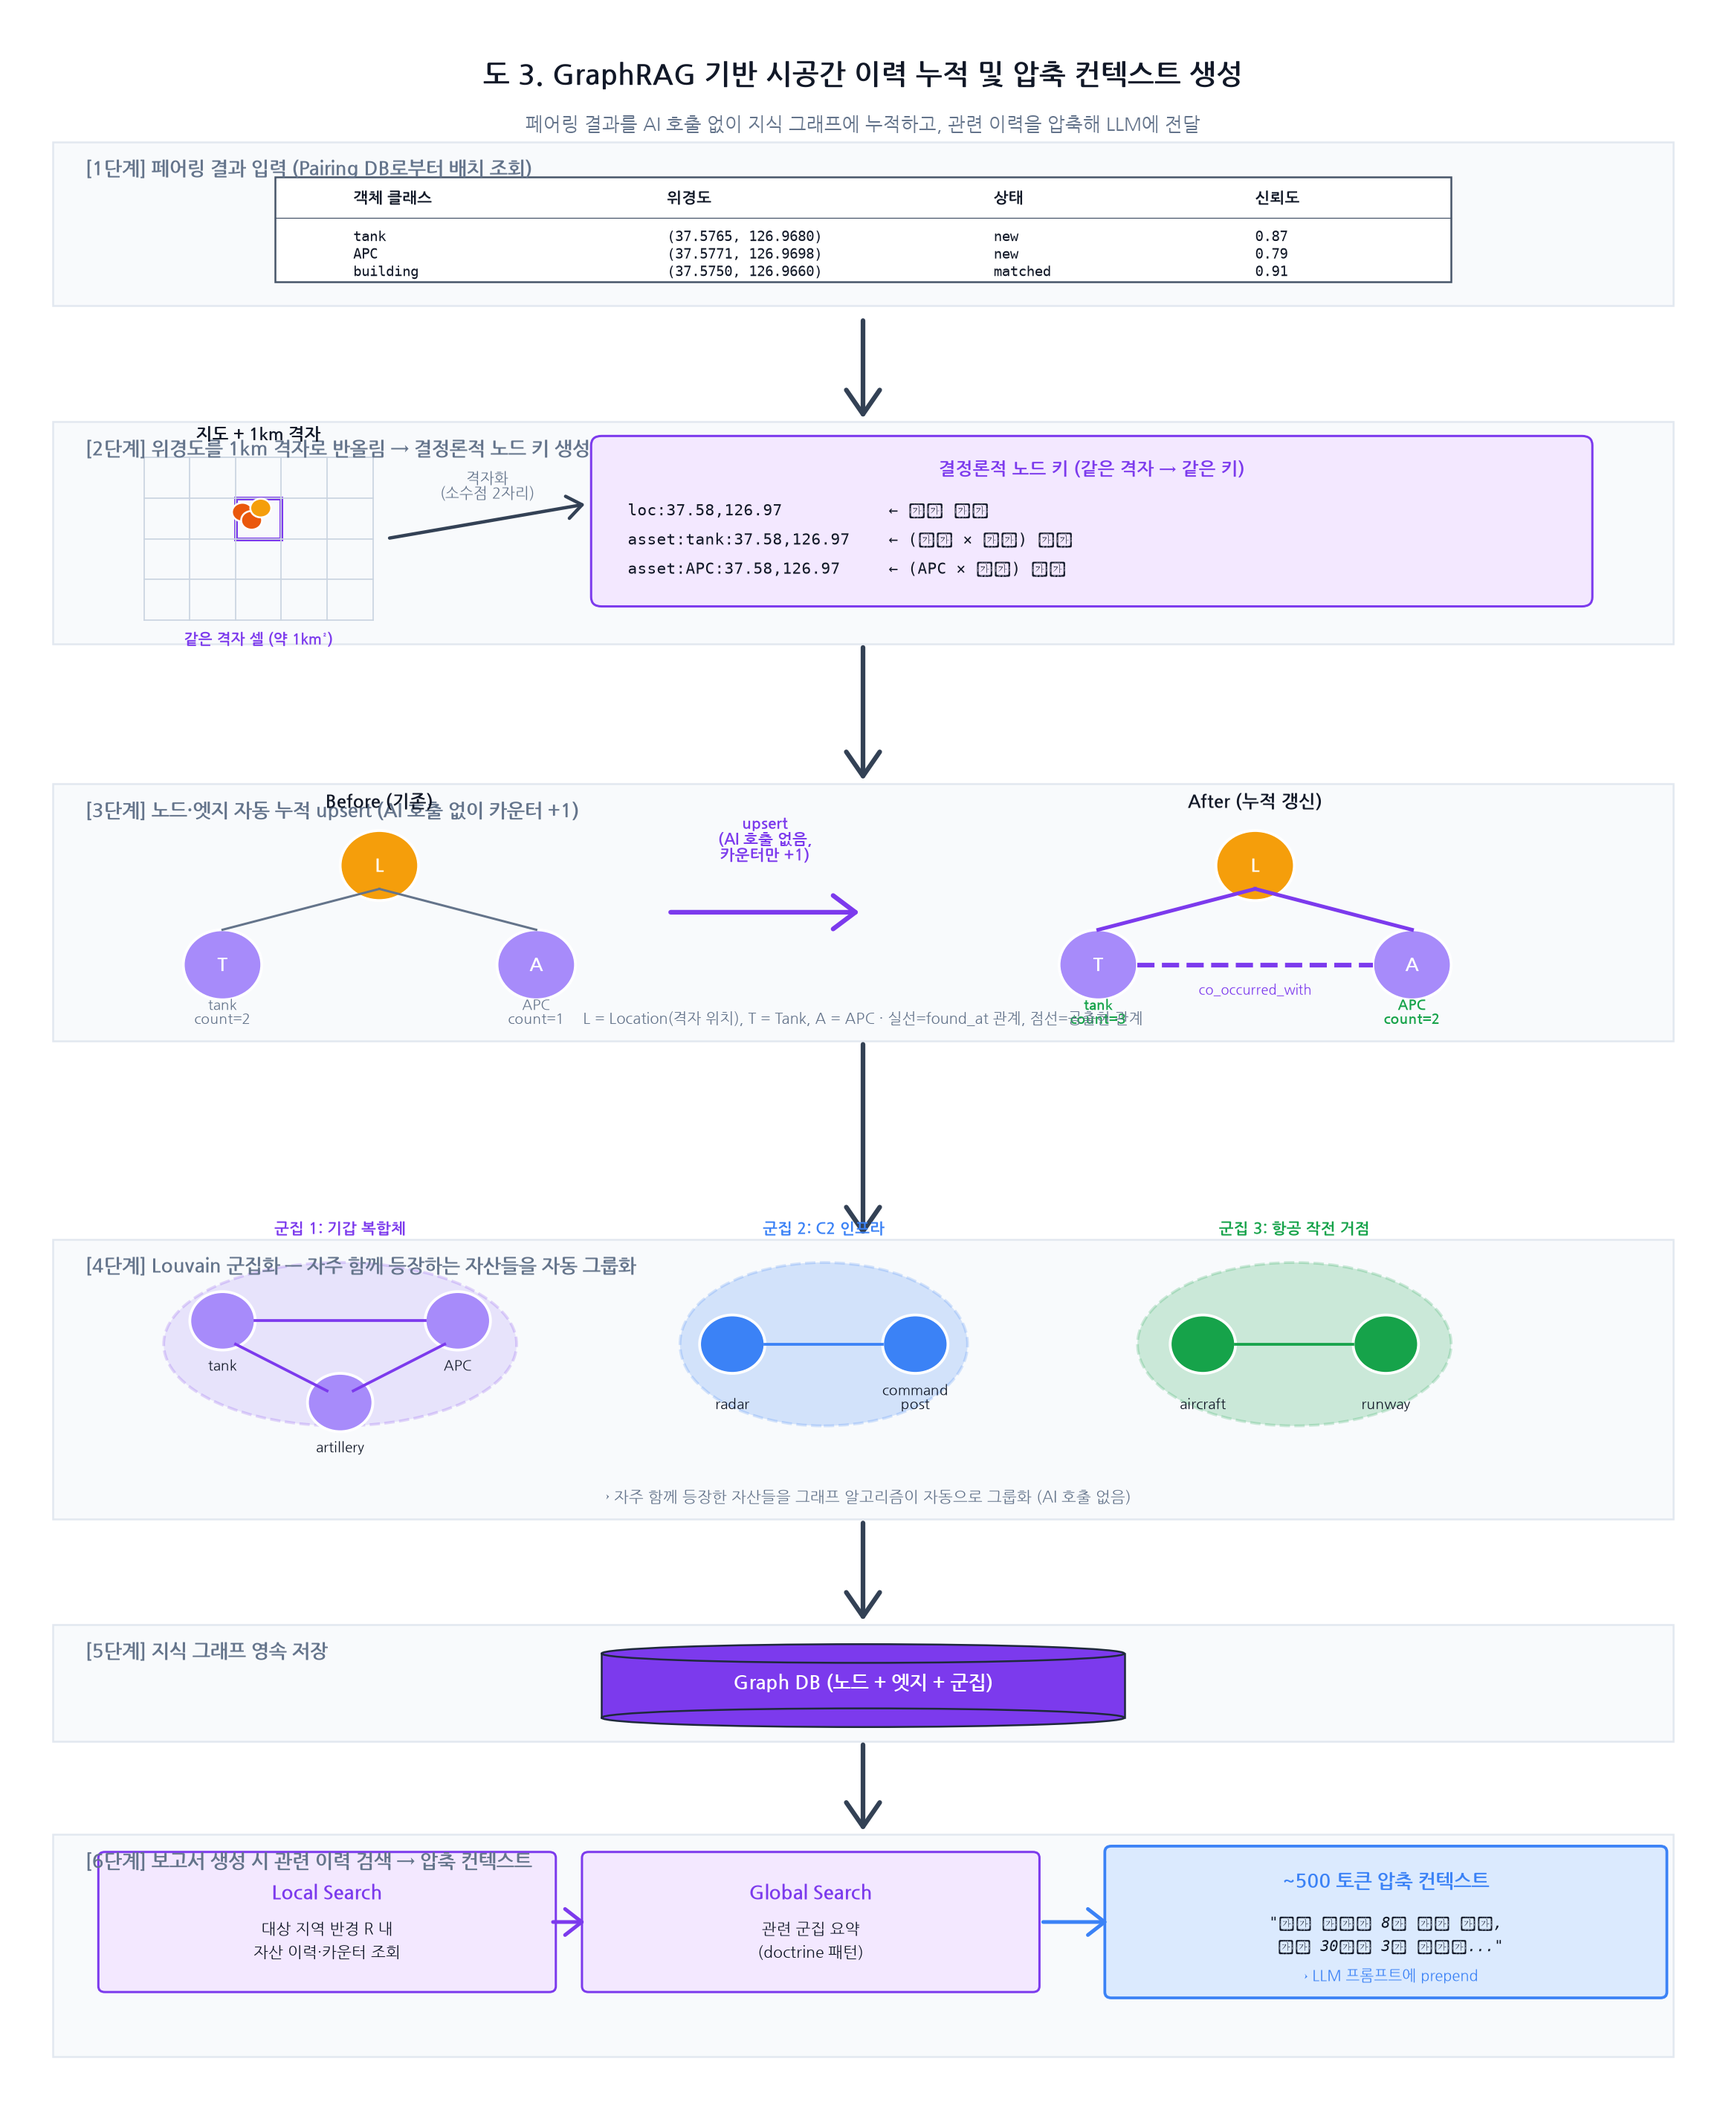
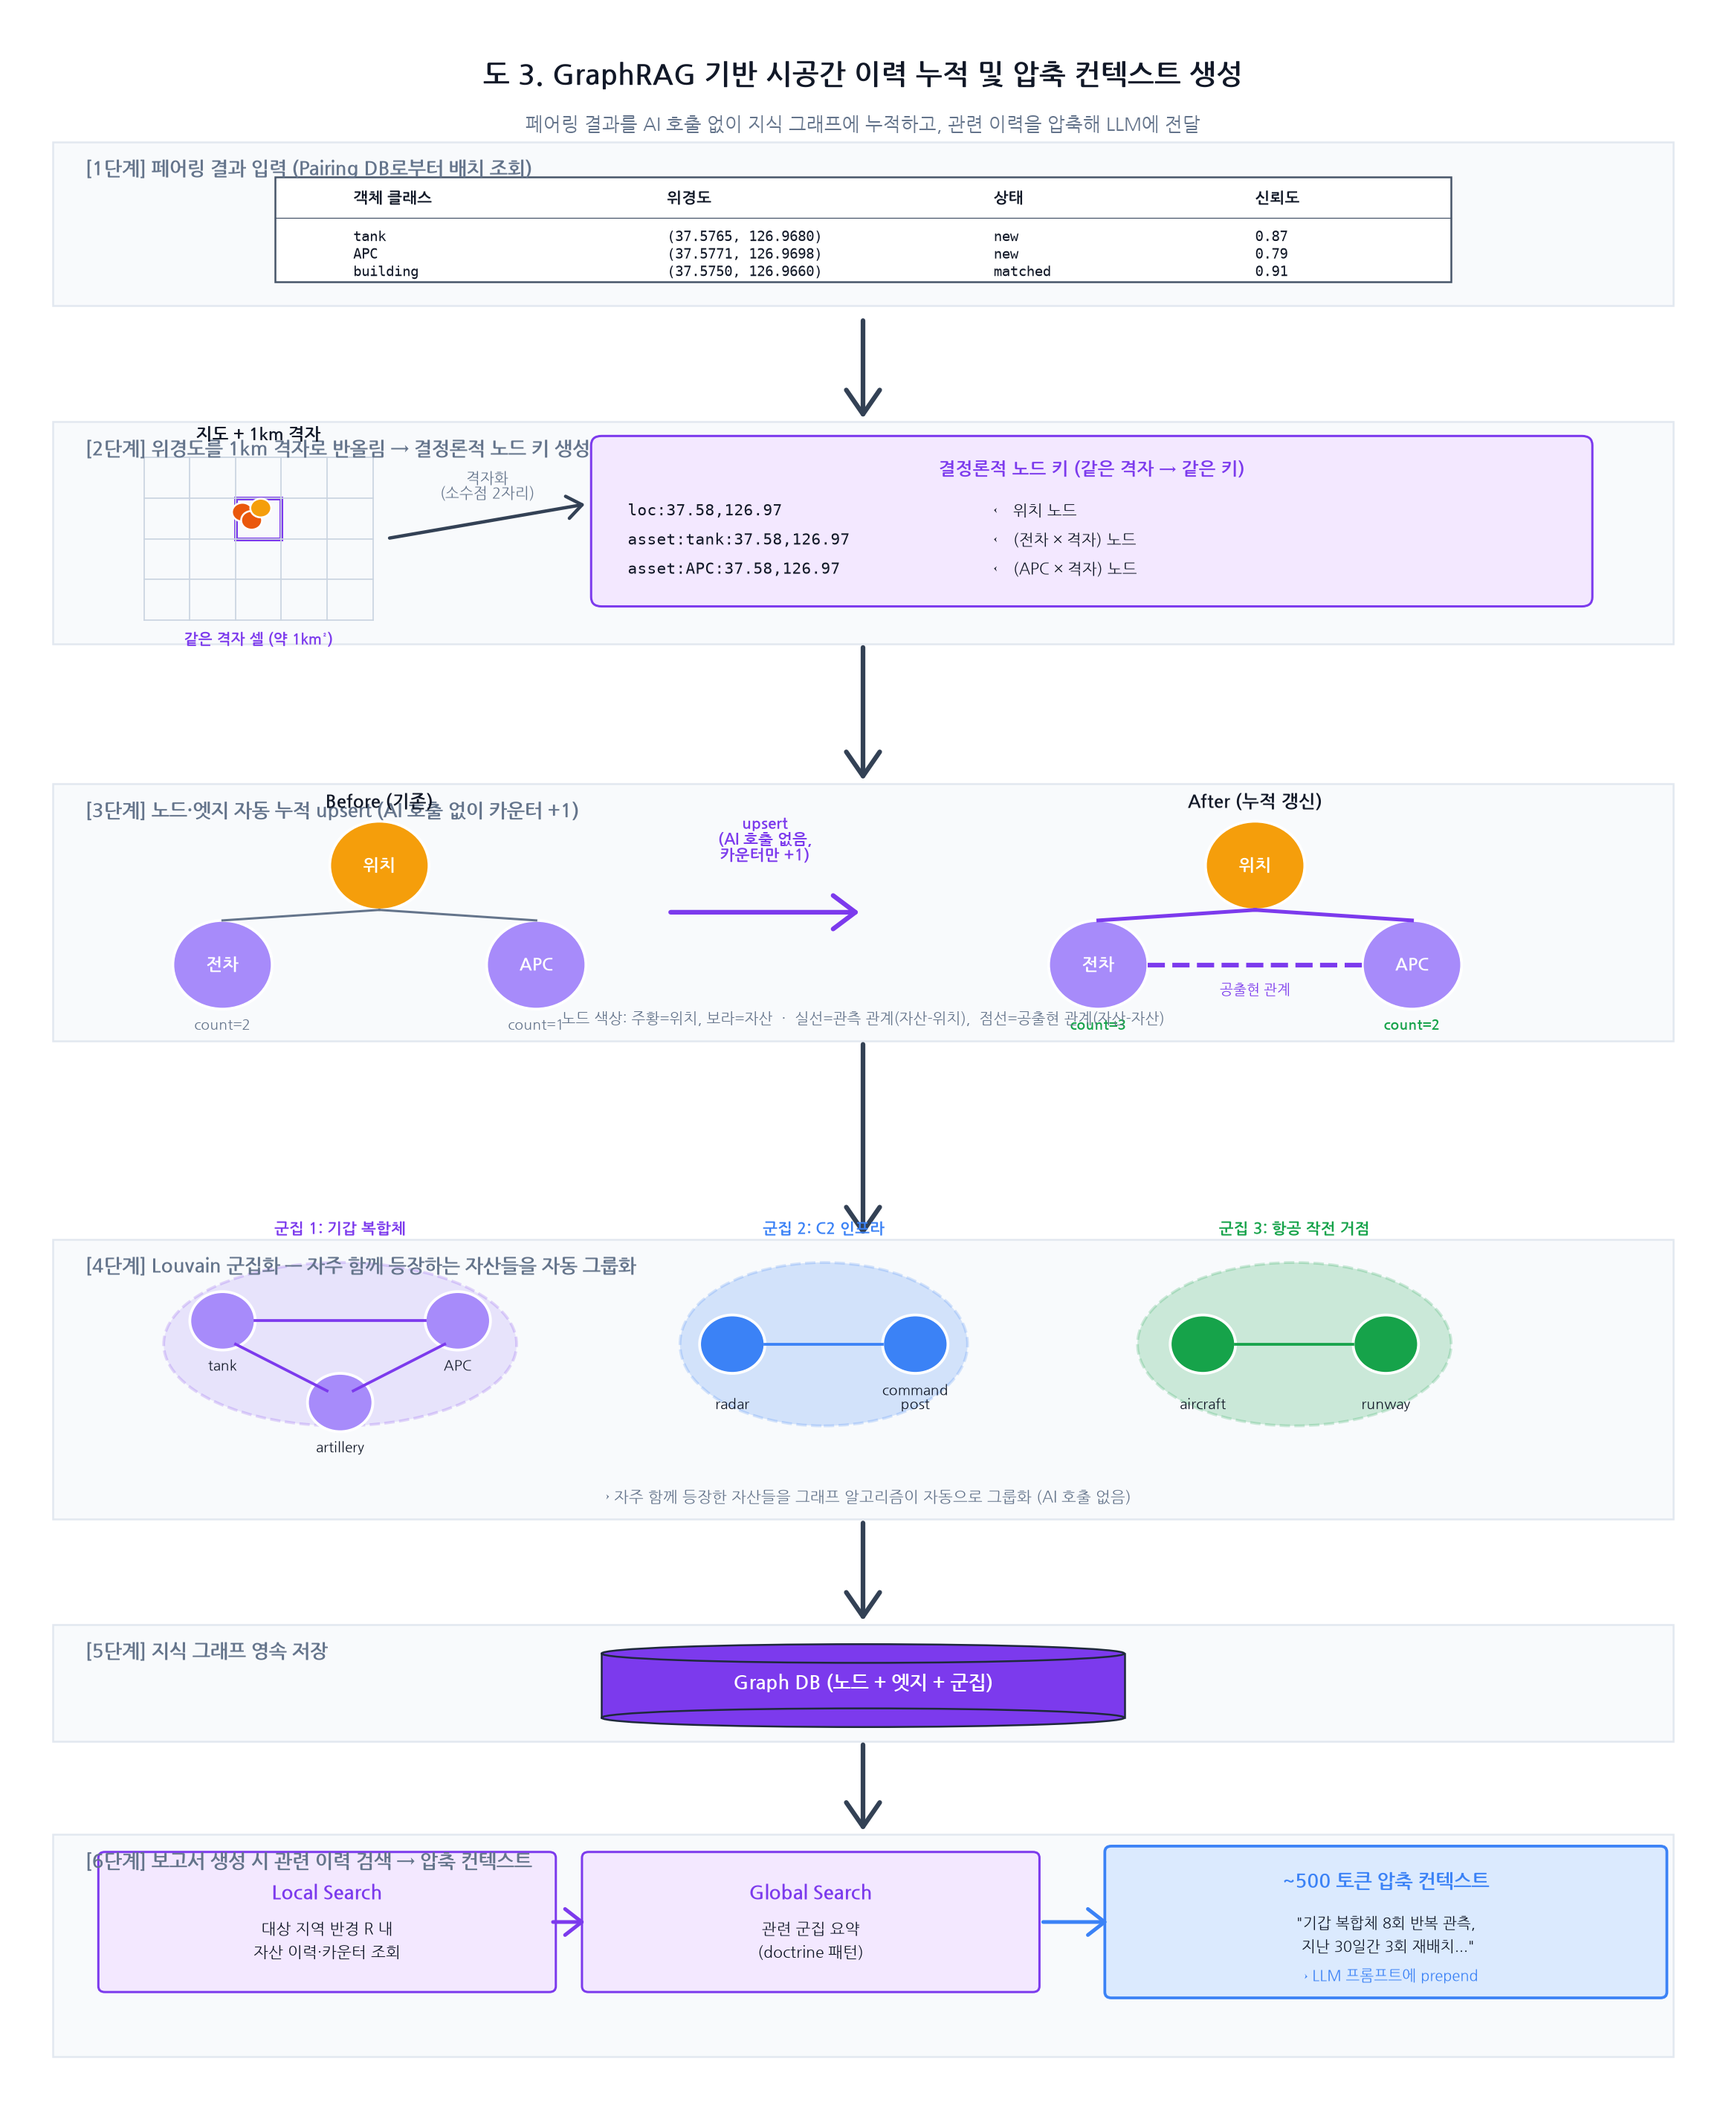
fig3 v2: 노드 라벨 한글화 및 monospace 한글 tofu 제거
- Before/After 박스의 원 노드 라벨을 알파벳(L/T/A)에서
  한글 풀네임(위치/전차/APC)으로 교체해 별도 범례 없이도
  의미가 바로 읽히도록 정리.
- 격자 키 예시(loc:*, asset:*)에서 화살표 설명 부분을 monospace
  글꼴에서 분리해 DejaVu Sans Mono의 한글 글리프 누락으로
  네모(tofu)가 뜨던 문제 해결.
- 압축 컨텍스트 예시 문구의 monospace 지정을 제거해 동일 이슈 해소.

Claude-Session: https://claude.ai/code/session_01Y3sWY7g1ewsnteVCS5FK4B

diff --git a/build_fig3_v2.py b/build_fig3_v2.py
@@ -144,14 +144,17 @@ ax.add_patch(FancyBboxPatch((kx, ky), key_box_w, 1.3, boxstyle="round,pad=0.08",
 ax.text(kx + key_box_w/2, ky + 1.05, "결정론적 노드 키 (같은 격자 → 같은 키)",
         ha="center", fontsize=9.5, fontweight="bold", color=GRAPH)
 ax.text(kx + 0.2, ky + 0.7,
-        "loc:37.58,126.97           ← 위치 노드",
-        fontsize=8.5, family="monospace", color=TEXT)
+        "loc:37.58,126.97", fontsize=8.5, family="monospace", color=TEXT)
+ax.text(kx + 3.0, ky + 0.7,
+        "← 위치 노드", fontsize=8.5, color=TEXT)
 ax.text(kx + 0.2, ky + 0.45,
-        "asset:tank:37.58,126.97    ← (전차 × 격자) 노드",
-        fontsize=8.5, family="monospace", color=TEXT)
+        "asset:tank:37.58,126.97", fontsize=8.5, family="monospace", color=TEXT)
+ax.text(kx + 3.0, ky + 0.45,
+        "← (전차 × 격자) 노드", fontsize=8.5, color=TEXT)
 ax.text(kx + 0.2, ky + 0.2,
-        "asset:APC:37.58,126.97     ← (APC × 격자) 노드",
-        fontsize=8.5, family="monospace", color=TEXT)
+        "asset:APC:37.58,126.97", fontsize=8.5, family="monospace", color=TEXT)
+ax.text(kx + 3.0, ky + 0.2,
+        "← (APC × 격자) 노드", fontsize=8.5, color=TEXT)
 
 arrow_down(6.5, 12.6, 11.4)
 
@@ -165,23 +168,23 @@ bx, by = 0.8, 9.5
 ax.text(bx + 2.0, by + 1.7, "Before (기존)", ha="center", fontsize=9.5,
         fontweight="bold", color=TEXT)
 # location 노드
-ax.add_patch(Circle((bx + 2.0, by + 1.2), 0.30, facecolor=NODE_L, edgecolor="white", lw=1.5))
-ax.text(bx + 2.0, by + 1.2, "L", ha="center", va="center",
-        fontsize=10, fontweight="bold", color="white")
+ax.add_patch(Circle((bx + 2.0, by + 1.2), 0.38, facecolor=NODE_L, edgecolor="white", lw=1.5))
+ax.text(bx + 2.0, by + 1.2, "위치", ha="center", va="center",
+        fontsize=9, fontweight="bold", color="white")
 # asset 노드 2개
-ax.add_patch(Circle((bx + 0.8, by + 0.35), 0.30, facecolor=NODE_A, edgecolor="white", lw=1.5))
-ax.text(bx + 0.8, by + 0.35, "T", ha="center", va="center", fontsize=10,
+ax.add_patch(Circle((bx + 0.8, by + 0.35), 0.38, facecolor=NODE_A, edgecolor="white", lw=1.5))
+ax.text(bx + 0.8, by + 0.35, "전차", ha="center", va="center", fontsize=9,
         fontweight="bold", color="white")
-ax.text(bx + 0.8, by - 0.15, "tank\ncount=2", ha="center", fontsize=7.5, color=MUTED)
+ax.text(bx + 0.8, by - 0.2, "count=2", ha="center", fontsize=7.5, color=MUTED)
 
-ax.add_patch(Circle((bx + 3.2, by + 0.35), 0.30, facecolor=NODE_A, edgecolor="white", lw=1.5))
-ax.text(bx + 3.2, by + 0.35, "A", ha="center", va="center", fontsize=10,
+ax.add_patch(Circle((bx + 3.2, by + 0.35), 0.38, facecolor=NODE_A, edgecolor="white", lw=1.5))
+ax.text(bx + 3.2, by + 0.35, "APC", ha="center", va="center", fontsize=9,
         fontweight="bold", color="white")
-ax.text(bx + 3.2, by - 0.15, "APC\ncount=1", ha="center", fontsize=7.5, color=MUTED)
+ax.text(bx + 3.2, by - 0.2, "count=1", ha="center", fontsize=7.5, color=MUTED)
 
 # 엣지
-ax.plot([bx + 0.8, bx + 2.0], [by + 0.65, by + 1.0], color=MUTED, lw=1.2)
-ax.plot([bx + 3.2, bx + 2.0], [by + 0.65, by + 1.0], color=MUTED, lw=1.2)
+ax.plot([bx + 0.8, bx + 2.0], [by + 0.73, by + 0.82], color=MUTED, lw=1.2)
+ax.plot([bx + 3.2, bx + 2.0], [by + 0.73, by + 0.82], color=MUTED, lw=1.2)
 
 # 중앙 화살표 (upsert 처리)
 mx = 5.0
@@ -196,34 +199,34 @@ ax_x, ay = 7.5, 9.5
 ax.text(ax_x + 2.0, ay + 1.7, "After (누적 갱신)", ha="center",
         fontsize=9.5, fontweight="bold", color=TEXT)
 # location 노드
-ax.add_patch(Circle((ax_x + 2.0, ay + 1.2), 0.30, facecolor=NODE_L, edgecolor="white", lw=1.5))
-ax.text(ax_x + 2.0, ay + 1.2, "L", ha="center", va="center",
-        fontsize=10, fontweight="bold", color="white")
+ax.add_patch(Circle((ax_x + 2.0, ay + 1.2), 0.38, facecolor=NODE_L, edgecolor="white", lw=1.5))
+ax.text(ax_x + 2.0, ay + 1.2, "위치", ha="center", va="center",
+        fontsize=9, fontweight="bold", color="white")
 # asset 노드
-ax.add_patch(Circle((ax_x + 0.8, ay + 0.35), 0.30, facecolor=NODE_A, edgecolor="white", lw=1.5))
-ax.text(ax_x + 0.8, ay + 0.35, "T", ha="center", va="center", fontsize=10,
+ax.add_patch(Circle((ax_x + 0.8, ay + 0.35), 0.38, facecolor=NODE_A, edgecolor="white", lw=1.5))
+ax.text(ax_x + 0.8, ay + 0.35, "전차", ha="center", va="center", fontsize=9,
         fontweight="bold", color="white")
-ax.text(ax_x + 0.8, ay - 0.15, "tank\ncount=3", ha="center", fontsize=7.5,
+ax.text(ax_x + 0.8, ay - 0.2, "count=3", ha="center", fontsize=7.5,
         color=GREEN, fontweight="bold")
 
-ax.add_patch(Circle((ax_x + 3.2, ay + 0.35), 0.30, facecolor=NODE_A, edgecolor="white", lw=1.5))
-ax.text(ax_x + 3.2, ay + 0.35, "A", ha="center", va="center", fontsize=10,
+ax.add_patch(Circle((ax_x + 3.2, ay + 0.35), 0.38, facecolor=NODE_A, edgecolor="white", lw=1.5))
+ax.text(ax_x + 3.2, ay + 0.35, "APC", ha="center", va="center", fontsize=9,
         fontweight="bold", color="white")
-ax.text(ax_x + 3.2, ay - 0.15, "APC\ncount=2", ha="center", fontsize=7.5,
+ax.text(ax_x + 3.2, ay - 0.2, "count=2", ha="center", fontsize=7.5,
         color=GREEN, fontweight="bold")
 
 # 엣지 - 굵어짐 (공출현 강화)
-ax.plot([ax_x + 0.8, ax_x + 2.0], [ay + 0.65, ay + 1.0], color=GRAPH, lw=2.0)
-ax.plot([ax_x + 3.2, ax_x + 2.0], [ay + 0.65, ay + 1.0], color=GRAPH, lw=2.0)
+ax.plot([ax_x + 0.8, ax_x + 2.0], [ay + 0.73, ay + 0.82], color=GRAPH, lw=2.0)
+ax.plot([ax_x + 3.2, ax_x + 2.0], [ay + 0.73, ay + 0.82], color=GRAPH, lw=2.0)
 # co_occurred_with 엣지 (asset 간)
-ax.plot([ax_x + 1.1, ax_x + 2.9], [ay + 0.35, ay + 0.35],
+ax.plot([ax_x + 1.18, ax_x + 2.82], [ay + 0.35, ay + 0.35],
         color=GRAPH, lw=2.5, linestyle="--")
-ax.text(ax_x + 2.0, ay + 0.1, "co_occurred_with", ha="center",
-        fontsize=7, color=GRAPH, style="italic")
+ax.text(ax_x + 2.0, ay + 0.1, "공출현 관계", ha="center",
+        fontsize=7.5, color=GRAPH, style="italic")
 
 # 하단 설명
 ax.text(6.5, 9.35,
-        "L = Location(격자 위치), T = Tank, A = APC · 실선=found_at 관계, 점선=공출현 관계",
+        "노드 색상: 주황=위치, 보라=자산  ·  실선=관측 관계(자산-위치),  점선=공출현 관계(자산-자산)",
         ha="center", fontsize=8, color=MUTED, style="italic")
 
 arrow_down(6.5, 9.2, 7.5)
@@ -324,9 +327,9 @@ ax.add_patch(FancyBboxPatch((8.4, 1.05), 4.2, 1.2, boxstyle="round,pad=0.05",
 ax.text(10.5, 1.95, "~500 토큰 압축 컨텍스트", ha="center", fontsize=10.5,
         fontweight="bold", color=BLUE)
 ax.text(10.5, 1.6, "\"기갑 복합체 8회 반복 관측,", ha="center",
-        fontsize=8, color=TEXT, style="italic", family="monospace")
+        fontsize=8, color=TEXT, style="italic")
 ax.text(10.5, 1.4, " 지난 30일간 3회 재배치...\"", ha="center",
-        fontsize=8, color=TEXT, style="italic", family="monospace")
+        fontsize=8, color=TEXT, style="italic")
 ax.text(10.5, 1.15, "→ LLM 프롬프트에 prepend", ha="center",
         fontsize=8, color=BLUE)
 
